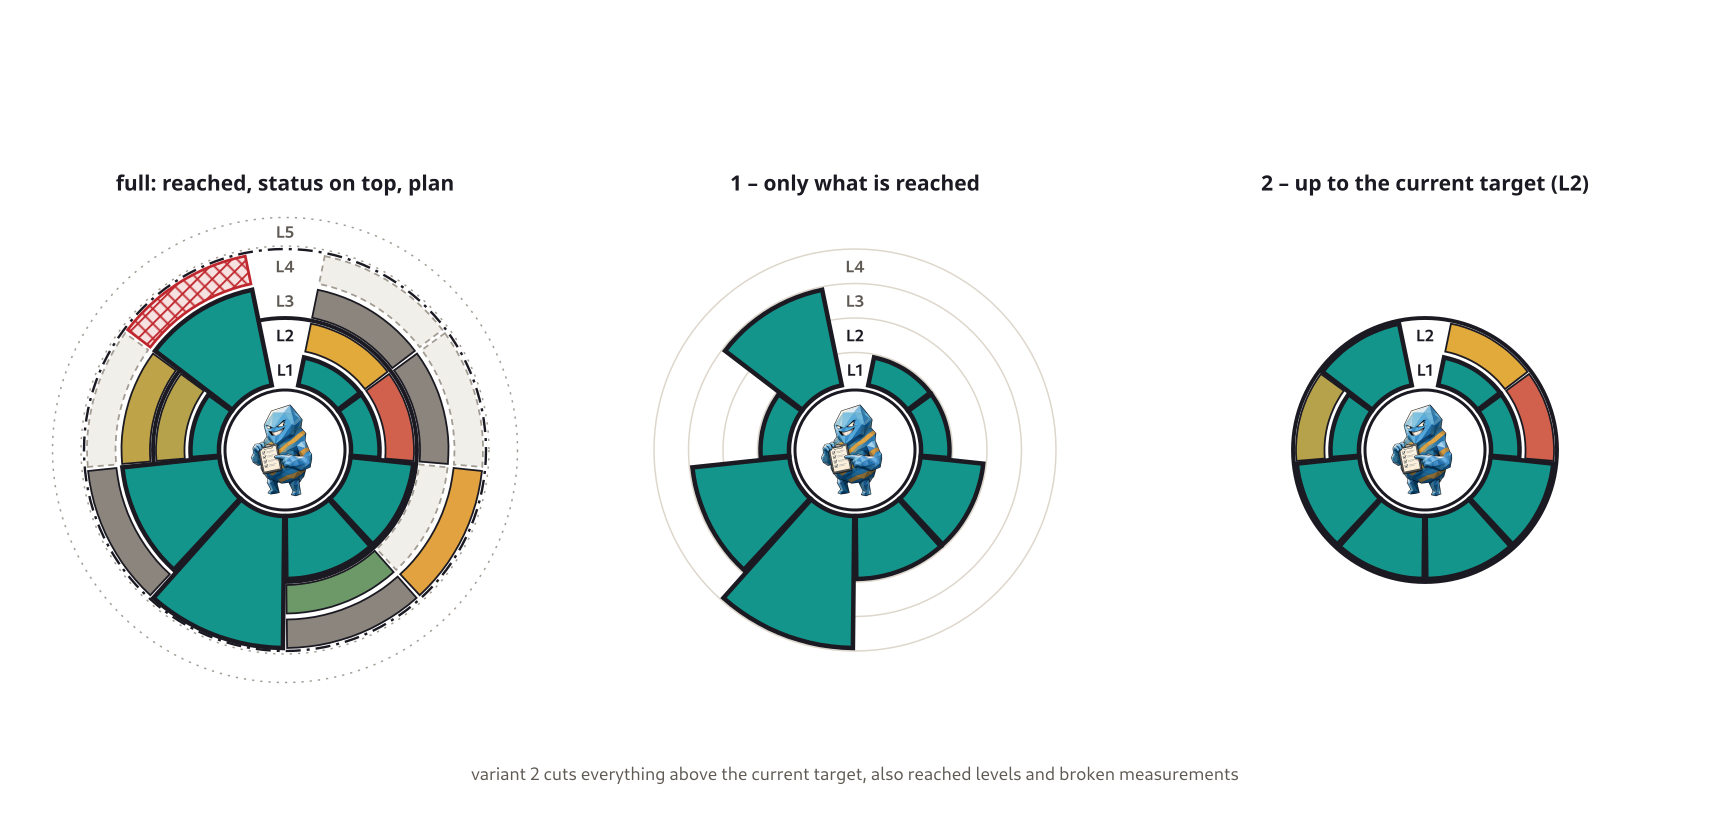
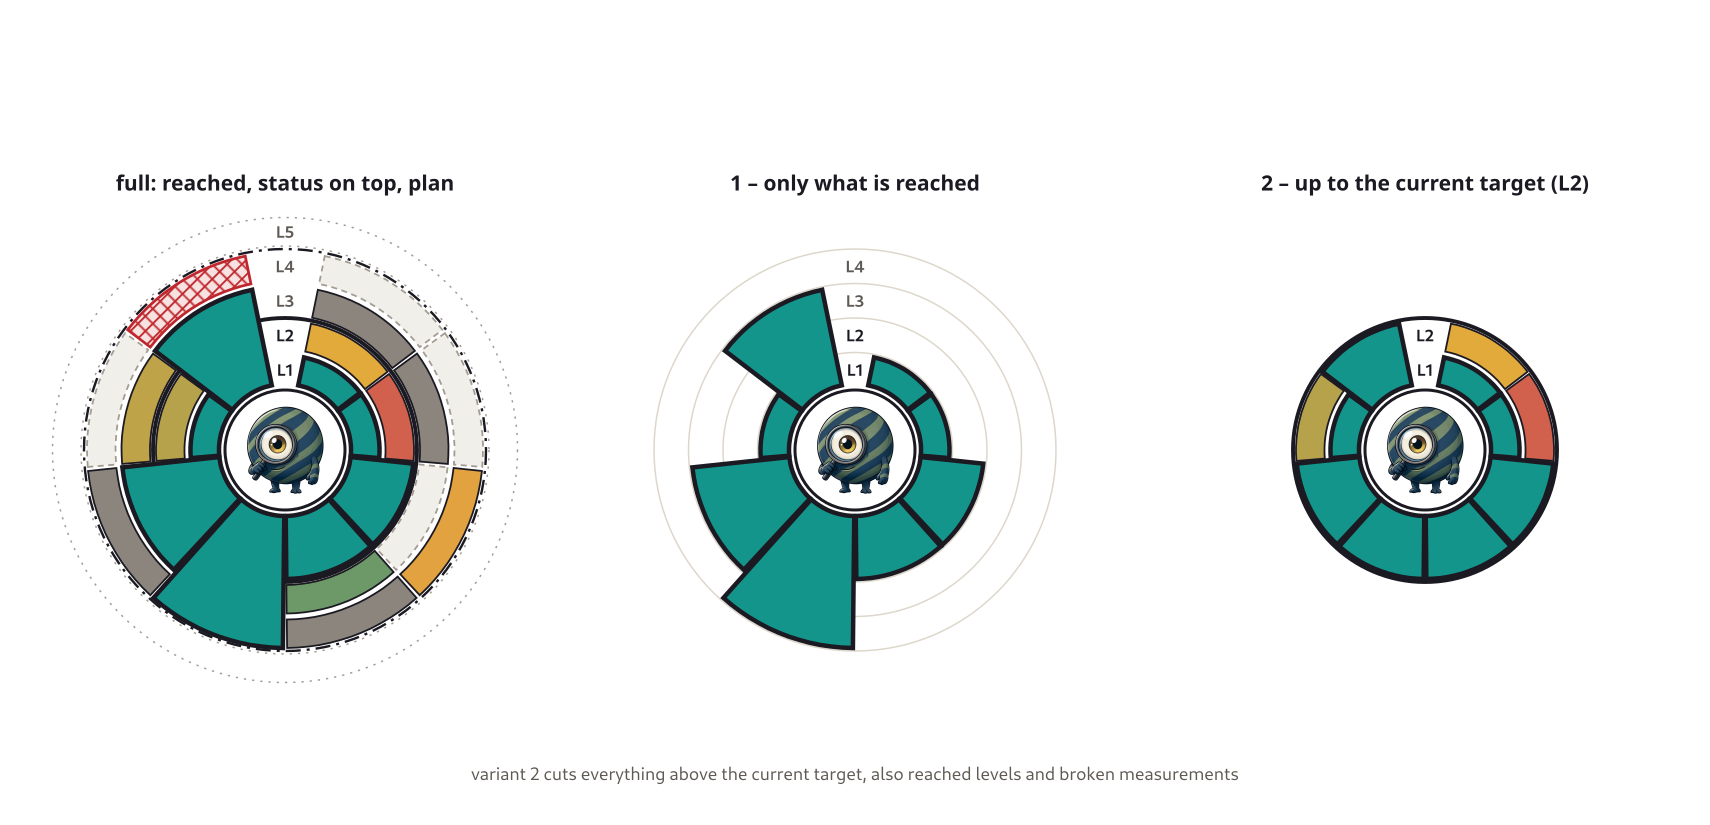
quawa monster with mouth; ring pictures show quawa as the example instead of deciwa

Changed region(s): [[0.8058, 0.4848, 0.8678, 0.6061], [0.4649, 0.4848, 0.5269, 0.6061], [0.124, 0.4848, 0.186, 0.6061]]

diff --git a/src/content/blog/de/quality-maturity/index.md b/src/content/blog/de/quality-maturity/index.md
@@ -41,14 +41,14 @@ Acht Bereiche teilen sich das Bild: Anforderungen, Dokumentation, Tests, Code-Qu
 
 ## Der Stand auf einen Blick
 
-![Reifegrad-Ringe von deciwa](../../../../assets/blog/quality-maturity/rings-front.png)
+![Reifegrad-Ringe von quawa](../../../../assets/blog/quality-maturity/rings-front.png)
 
-So könnte das für deciwa aussehen, mein Review-Tool. Die Werte sind ein ausgedachtes Beispiel, keine echte Messung – sie zeigen alle Zustände auf einmal. In der Mitte steht das Tool, um es herum ein Ring pro Stufe, von innen nach außen. Jedes Tortenstück ist ein Bereich.
+So könnte das für quawa aussehen – das Tool, das diese Ringe später zeichnet. Die Werte sind ein ausgedachtes Beispiel, keine echte Messung – sie zeigen alle Zustände auf einmal. In der Mitte steht das Tool, um es herum ein Ring pro Stufe, von innen nach außen. Jedes Tortenstück ist ein Bereich.
 
 - **Der dicke Block** von der Mitte nach außen zeigt, was erreicht ist. Security steht bei Stufe 4, Recht bei 3, Dokumentation erst bei 1. Das Bild bekommt Berge und Täler, und ich sehe sofort, wo das Tool schwach ist.
 - **Darüber** zeigt jede weitere Stufe ihren eigenen Stand: rot, wenn die Messungen weit weg sind, orange, wenn es knapp wird. Auch Stufen weit über dem Ziel werden gemessen – die Mutationstests auf Stufe 4 laufen schon, obwohl auf Stufe 3 noch etwas fehlt.
 - **Grau** zeigt, woran schon gedacht ist. Dunkelgrau heißt, die Messung ist festgelegt, aber es gibt noch kein Ergebnis. Hellgrau gestrichelt heißt, das Modell fordert etwas, aber im Projekt ist noch nicht beschrieben, wie es gemessen wird. Rot schraffiert heißt, die Messung selbst ist kaputt.
-- **Die Linien** zeigen das Ziel: Die dicke Linie markiert, was heute gilt, die gestrichelte, wohin das Projekt am Ende will. Was dazwischen liegt, ist geplant – mit Datum oder Release: „Stufe 3 ab März 2027, Stufe 4 ab Version 1.0“. Stufe 5 ist bei deciwa gar nicht vorgesehen und bleibt ein gepunkteter Rand.
+- **Die Linien** zeigen das Ziel: Die dicke Linie markiert, was heute gilt, die gestrichelte, wohin das Projekt am Ende will. Was dazwischen liegt, ist geplant – mit Datum oder Release: „Stufe 3 ab März 2027, Stufe 4 ab Version 1.0“. Stufe 5 ist bei quawa gar nicht vorgesehen und bleibt ein gepunkteter Rand.
 
 Ein Bild beantwortet damit drei Fragen: Wo steht das Tool? Wo will es hin? Und worüber habe ich mir schon Gedanken gemacht?
 

diff --git a/src/content/blog/en/quality-maturity/index.md b/src/content/blog/en/quality-maturity/index.md
@@ -42,14 +42,14 @@ Eight areas share the picture: requirements, documentation, testing, code health
 
 ## Where it stands at a glance
 
-![Maturity rings of deciwa](../../../../assets/blog/quality-maturity/rings-front.png)
+![Maturity rings of quawa](../../../../assets/blog/quality-maturity/rings-front.png)
 
-This is how it could look for deciwa, my review tool. The values are an invented example, not a real measurement – they show every state at once. The tool sits in the middle, around it one ring per level, from the inside out. Every slice of the pie is an area.
+This is how it could look for quawa – the tool that will draw these rings. The values are an invented example, not a real measurement – they show every state at once. The tool sits in the middle, around it one ring per level, from the inside out. Every slice of the pie is an area.
 
 - **The thick block** from the center outwards shows what is reached. Security is at level 4, legal at 3, documentation only at 1. The picture gets hills and valleys, and I see right away where the tool is weak.
 - **Above it**, every further level shows its own state: red when the measures are far off, orange when it gets close. Levels far above the target are measured too – the mutation tests on level 4 already run, even though something is still missing on level 3.
 - **Gray** shows what has already been thought of. Dark gray means the measure is defined but there is no result yet. Light gray and dashed means the model asks for something, but the project doesn't say yet how to measure it. Red hatching means the measurement itself is broken.
-- **The lines** show the target: the thick line marks what applies today, the dashed one where the project wants to end up. What lies in between is planned – with a date or a release: "level 3 from March 2027, level 4 from version 1.0". Level 5 isn't planned for deciwa at all and stays a dotted outline.
+- **The lines** show the target: the thick line marks what applies today, the dashed one where the project wants to end up. What lies in between is planned – with a date or a release: "level 3 from March 2027, level 4 from version 1.0". Level 5 isn't planned for quawa at all and stays a dotted outline.
 
 So one picture answers three questions: Where does the tool stand? Where does it want to go? And what have I already thought about?
 
